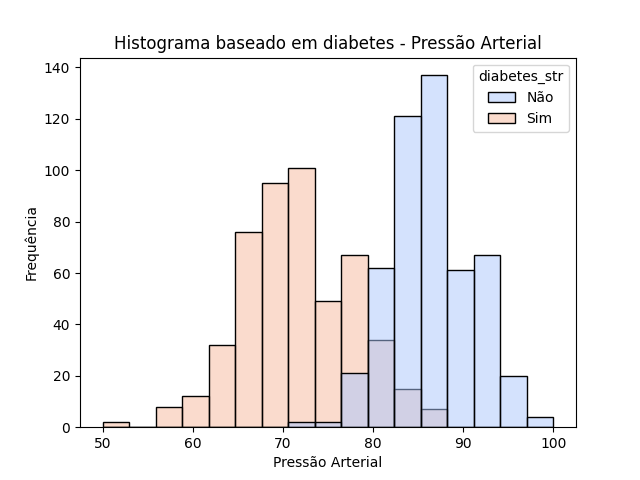
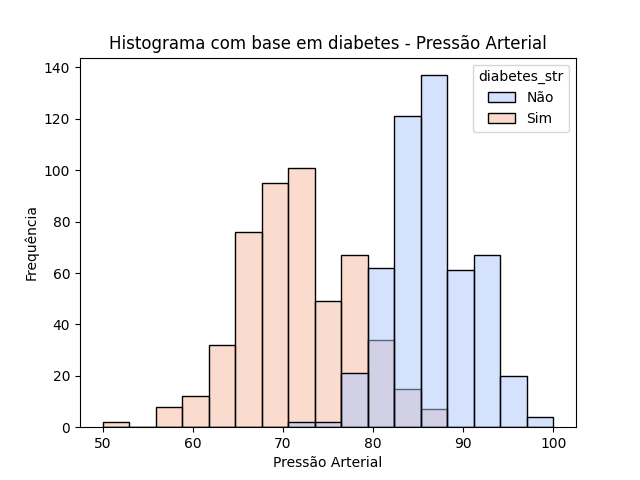
docs

Changed region(s): [[0.1562, 0.0625, 0.875, 0.125]]

diff --git a/modelo_diabetes.py b/modelo_diabetes.py
@@ -57,7 +57,7 @@ sns.boxplot(
   hue='diabetes_str',
 )
 plt.ylabel("Glicemia")
-plt.title("Boxplot por tipo de Glicemia")
+plt.title("Boxplot com base em diabetes - Glicemia")
 plt.savefig("./dataviz/glicemia-hue-boxplot.png")
 plt.close()
 
@@ -81,7 +81,7 @@ sns.histplot(
   palette='coolwarm',
   hue='diabetes_str'
 )
-plt.title("Histograma baseado em diabetes - Pressão Arterial")
+plt.title("Histograma com base em diabetes - Pressão Arterial")
 plt.ylabel("Frequência")
 plt.xlabel("Pressão Arterial")
 plt.savefig("./dataviz/pressao-arterial-hue-diabetes-histogram.png")